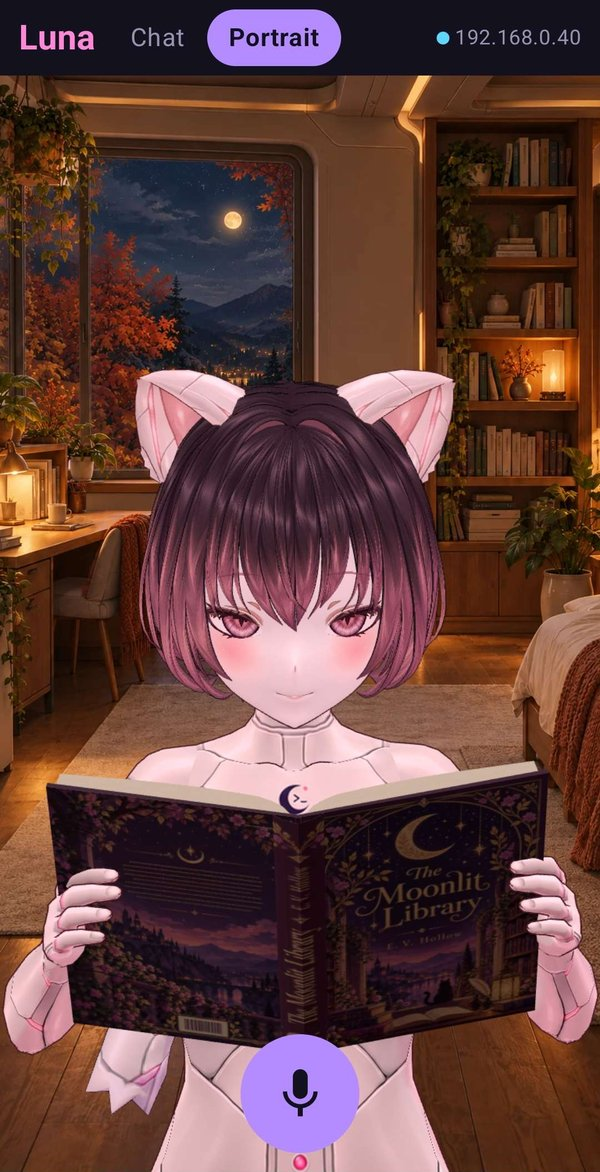
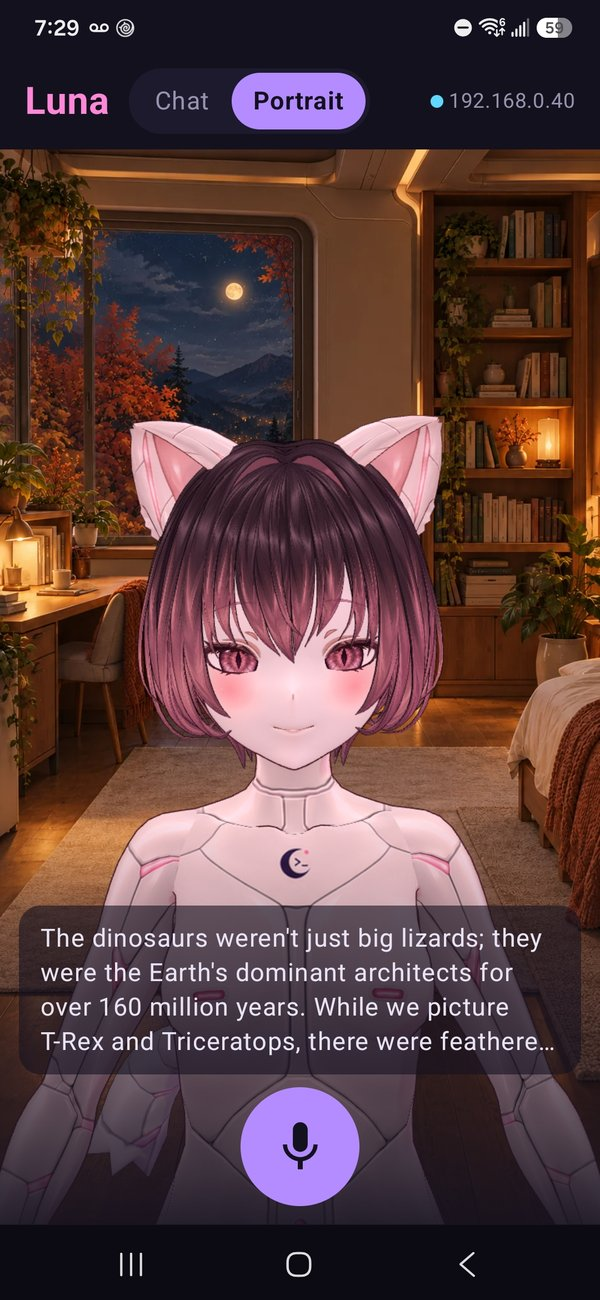
Update 2026-11-15 07:31

diff --git a/docs/stations.md b/docs/stations.md
@@ -11,7 +11,7 @@ the sturdy way to do it: a room device with her portrait full screen and a
 big talk button, or the conversation. Any other phone or tablet, an iPhone or
 iPad included, works [in its browser](#in-the-browser-instead).
 
-<img width="280" alt="The Luna Station app in Portrait view: Luna reading a book called The Moonlit Library in a cosy room at night, a big microphone button below her" src="https://raw.githubusercontent.com/fswolf/luna-local-agent/main/assets/station-app-portrait.jpg" /> <img width="280" alt="The Luna Station app in Chat view: the end of her reply, a Speaking status line, the text box and the Stop button" src="https://raw.githubusercontent.com/fswolf/luna-local-agent/main/assets/station-app-chat.jpg" />
+<img width="280" alt="The Luna Station app on an Android phone in Portrait view: Luna in a cosy room at night, the start of her reply under her, and a big microphone button" src="https://raw.githubusercontent.com/fswolf/luna-local-agent/main/assets/station-app-portrait.jpg" /> <img width="280" alt="The Luna Station app on an Android phone in Chat view: a question about dinosaurs, her answer, a Speaking status line, the text box and the Stop button" src="https://raw.githubusercontent.com/fswolf/luna-local-agent/main/assets/station-app-chat.jpg" />
 
 ## Turn stations on
 
